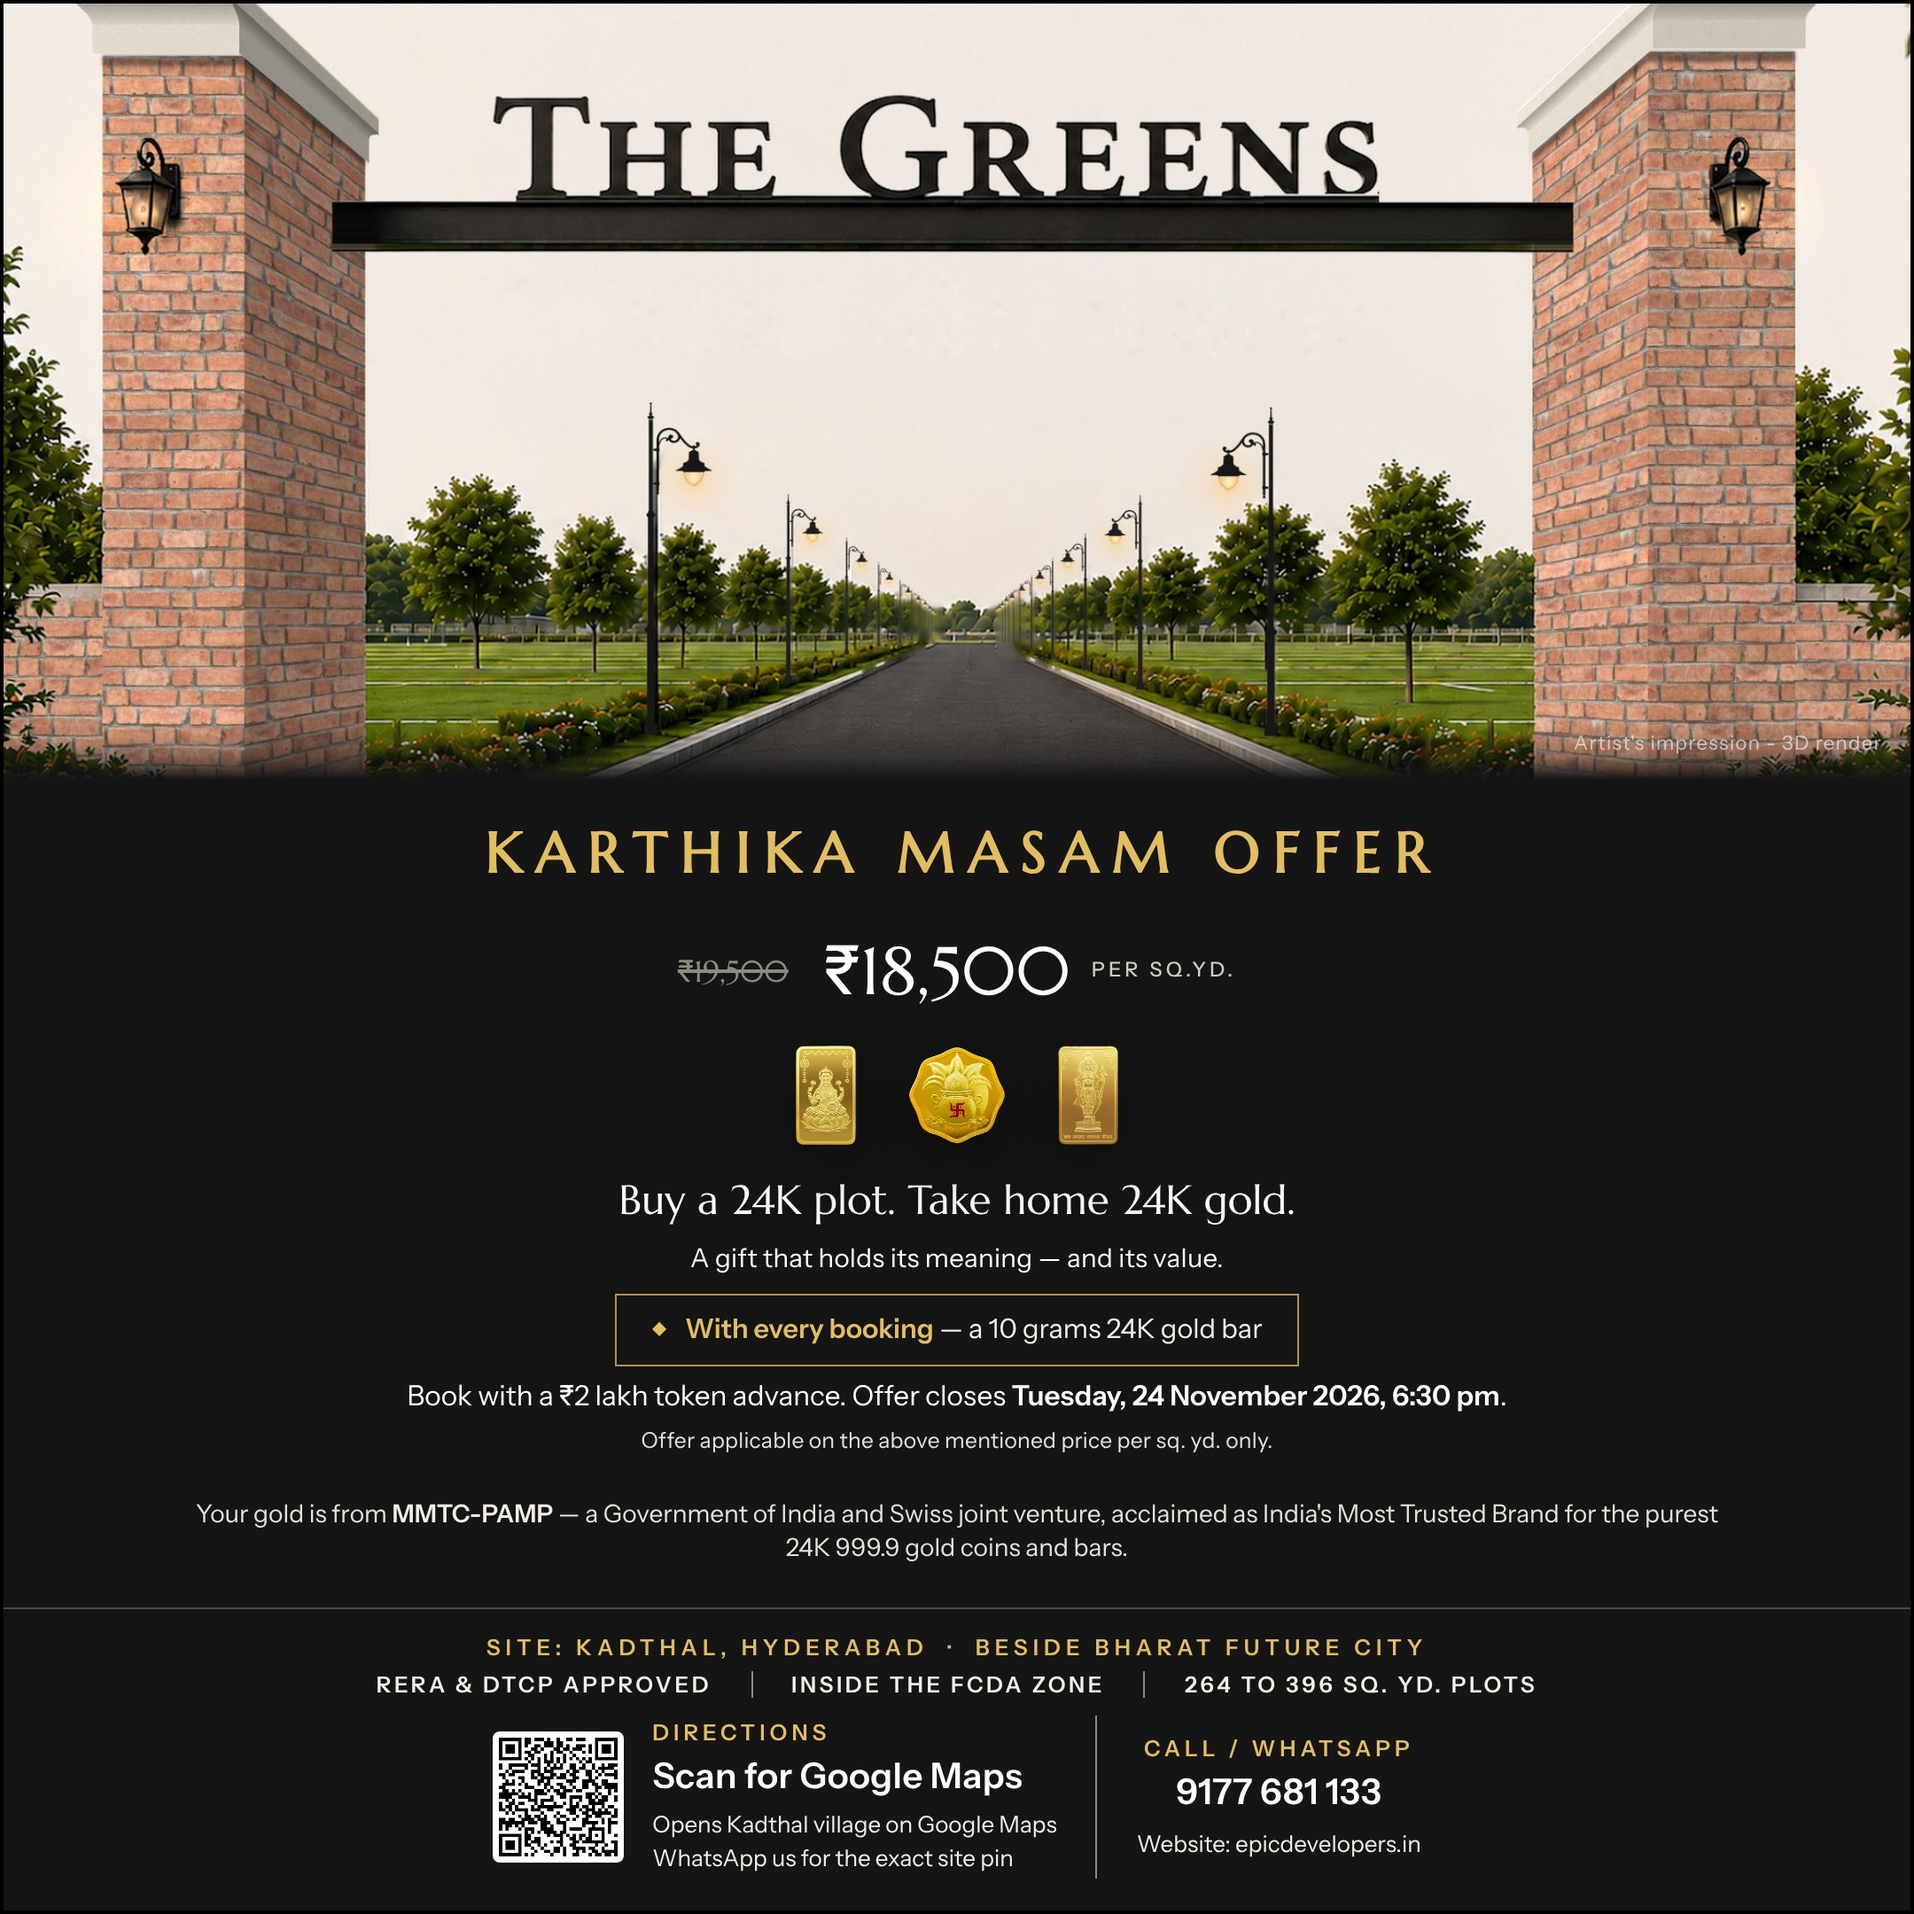
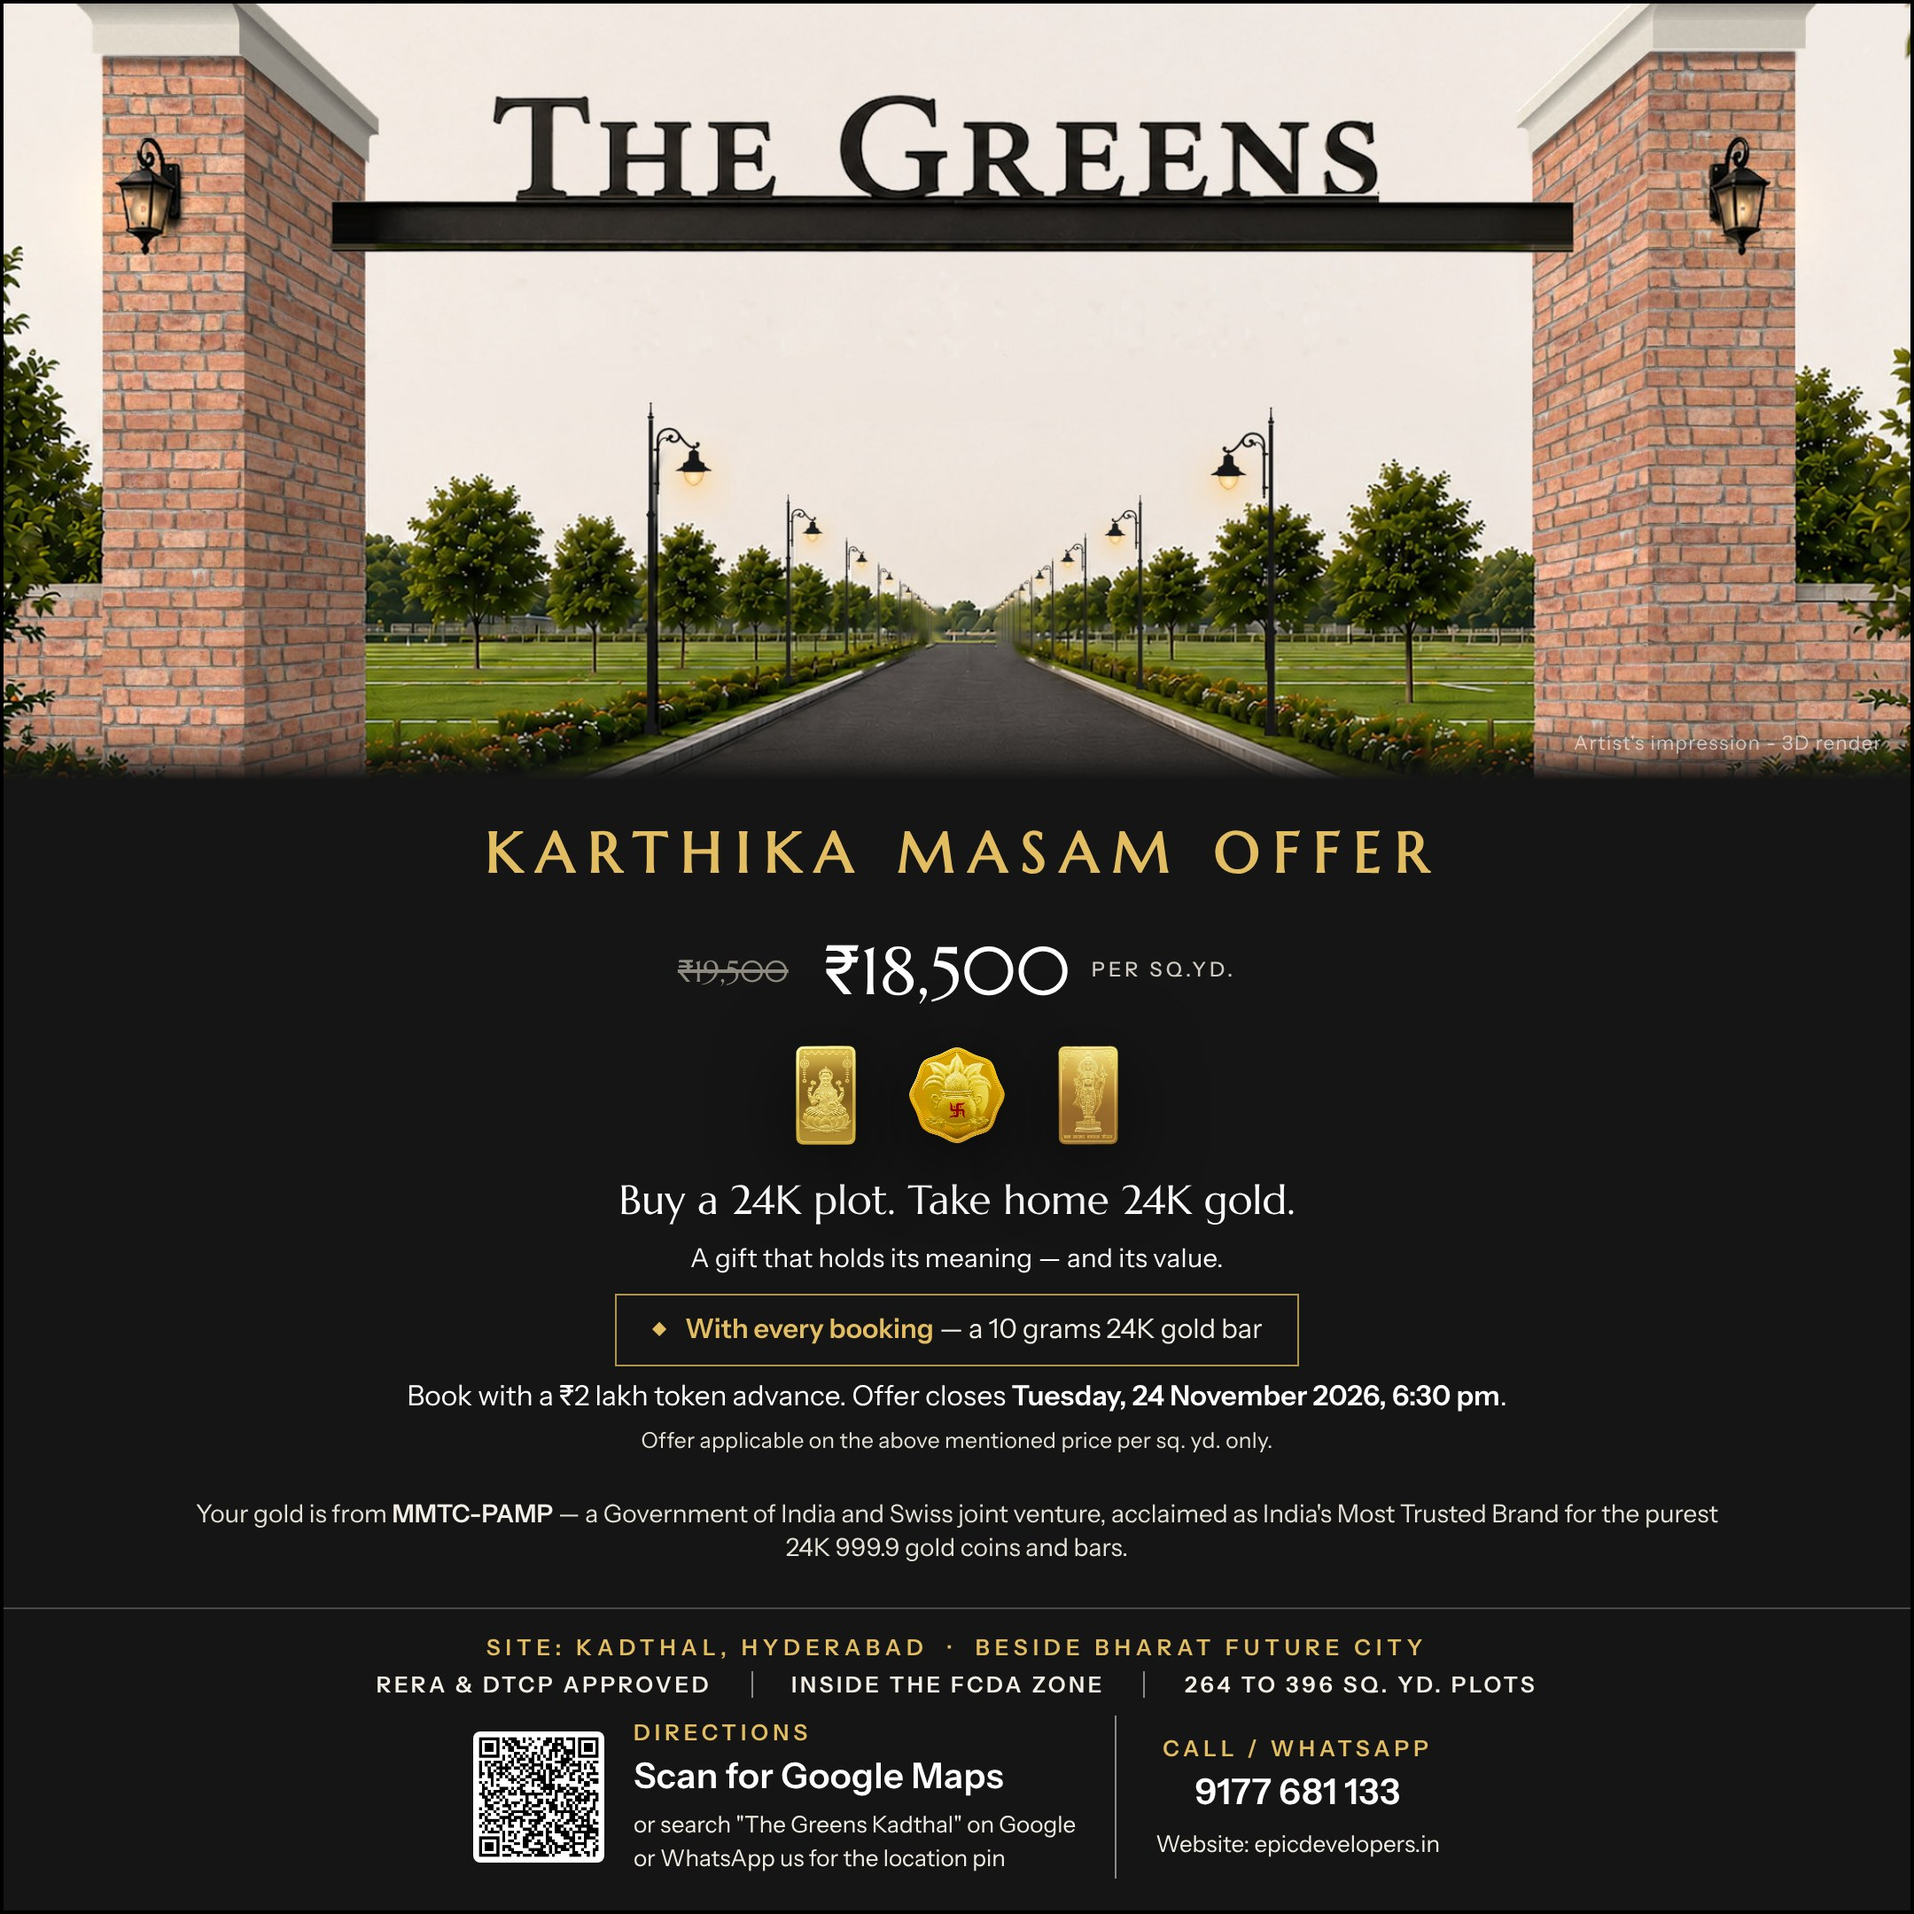
Greens offer: Directions to the Google listing
Claude-Session: https://claude.ai/code/session_014hxhTvT34tGMRhmkujJx4R

Changed region(s): [[0.2481, 0.8995, 0.5583, 0.9926], [0.5894, 0.8995, 0.7444, 0.9926]]

diff --git a/greens-offer/index.html b/greens-offer/index.html
@@ -171,7 +171,7 @@
   <div class="in">
     <a class="btn wa" href="https://wa.me/919177681133?text=Hi%2C%20I%27m%20interested%20in%20The%20Greens%20Karthika%20Masam%20offer%20at%20Kadthal."><svg viewBox="0 0 24 24"><path d="M17.5 14.4c-.3-.1-1.8-.9-2-1-.3-.1-.5-.1-.7.1-.2.3-.8 1-.9 1.2-.2.2-.3.2-.6.1-.3-.1-1.3-.5-2.4-1.5-.9-.8-1.5-1.8-1.7-2.1-.2-.3 0-.5.1-.6l.5-.5c.1-.2.2-.3.3-.5.1-.2 0-.4 0-.5l-.9-2.2c-.2-.6-.5-.5-.7-.5h-.6c-.2 0-.5.1-.8.4-.3.3-1 1-1 2.5s1.1 2.9 1.2 3.1c.1.2 2.1 3.2 5.1 4.5.7.3 1.3.5 1.7.6.7.2 1.4.2 1.9.1.6-.1 1.8-.7 2-1.4.2-.7.2-1.3.2-1.4-.1-.2-.3-.3-.6-.4zM12 2a10 10 0 0 0-8.6 15.1L2 22l5-1.3A10 10 0 1 0 12 2zm0 18.2a8.2 8.2 0 0 1-4.2-1.2l-.3-.2-3 .8.8-2.9-.2-.3A8.2 8.2 0 1 1 12 20.2z"/></svg>WhatsApp</a>
     <a class="btn" href="tel:+919177681133"><svg viewBox="0 0 24 24"><path d="M6.6 10.8a15.1 15.1 0 0 0 6.6 6.6l2.2-2.2c.3-.3.7-.4 1-.2 1.1.4 2.3.6 3.6.6.6 0 1 .4 1 1V20c0 .6-.4 1-1 1A17 17 0 0 1 3 4c0-.6.4-1 1-1h3.5c.6 0 1 .4 1 1 0 1.3.2 2.5.6 3.6.1.3 0 .7-.2 1l-2.3 2.2z"/></svg><span class="l">Call</span></a>
-    <a class="btn gold" href="https://www.google.com/maps/search/?api=1&amp;query=Kadthal,+Rangareddy,+Telangana"><svg viewBox="0 0 24 24"><path d="M12 2a7 7 0 0 0-7 7c0 5.2 7 13 7 13s7-7.8 7-13a7 7 0 0 0-7-7zm0 9.5A2.5 2.5 0 1 1 12 6.5a2.5 2.5 0 0 1 0 5z"/></svg><span class="l">Directions</span></a>
+    <a class="btn gold" href="https://www.google.com/maps/search/?api=1&amp;query=THE+GREENS+-+Villa+Plots+For+The+Visionary,+Kadthal"><svg viewBox="0 0 24 24"><path d="M12 2a7 7 0 0 0-7 7c0 5.2 7 13 7 13s7-7.8 7-13a7 7 0 0 0-7-7zm0 9.5A2.5 2.5 0 1 1 12 6.5a2.5 2.5 0 0 1 0 5z"/></svg><span class="l">Directions</span></a>
   </div>
 </nav>
 
